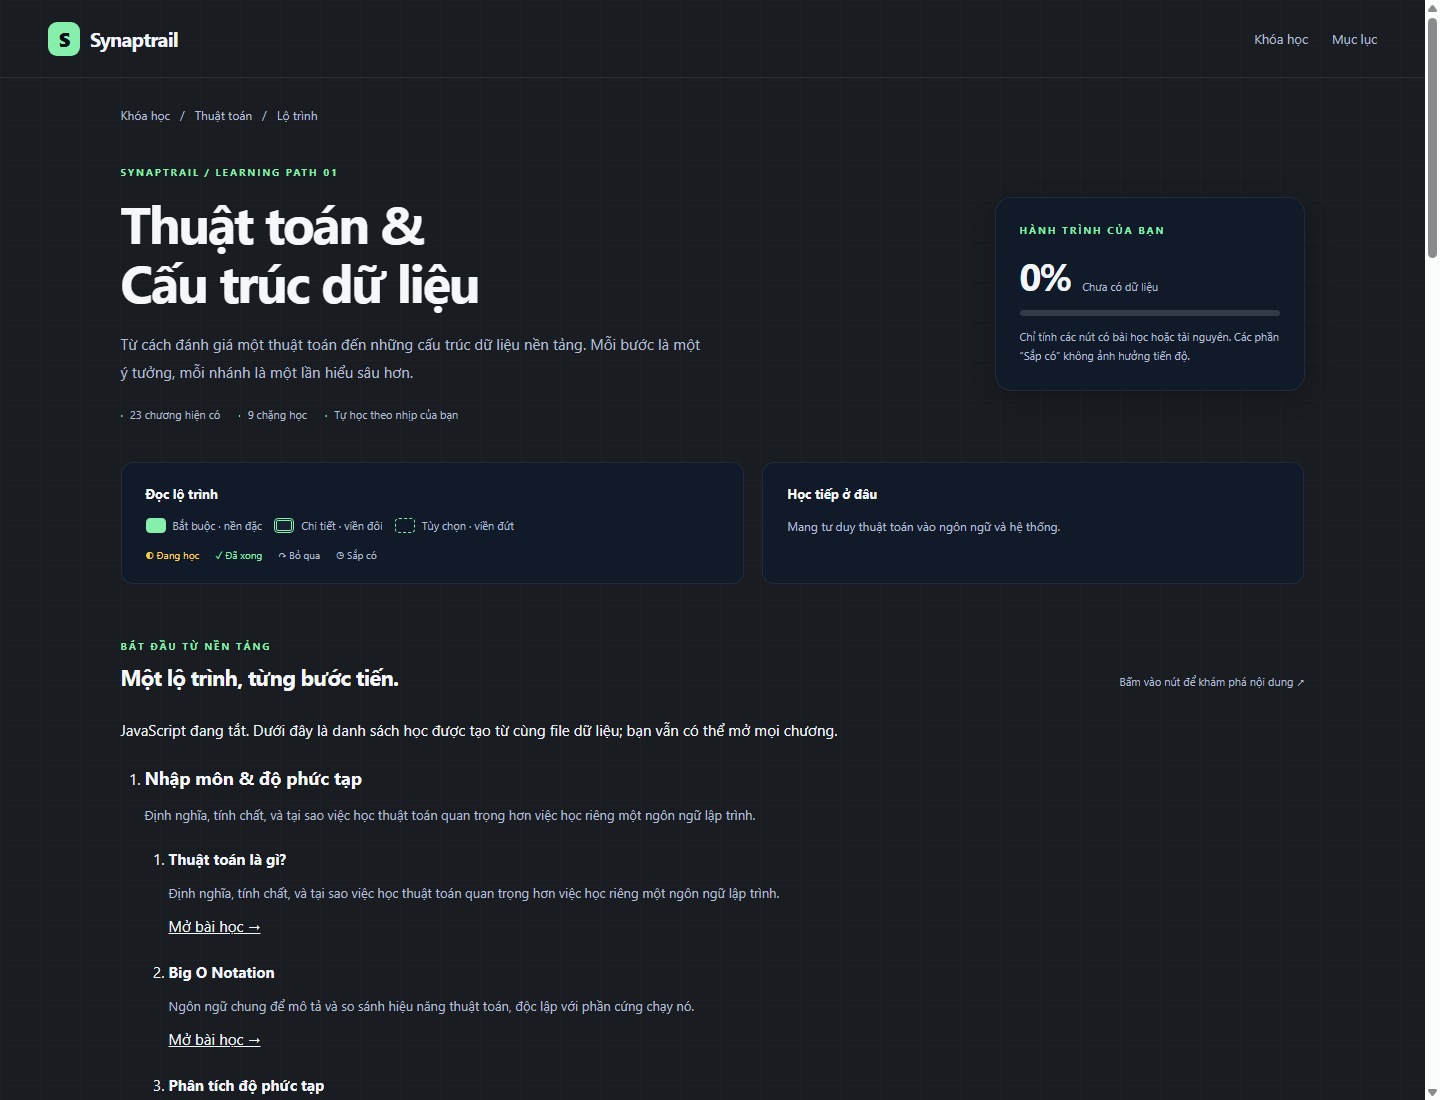
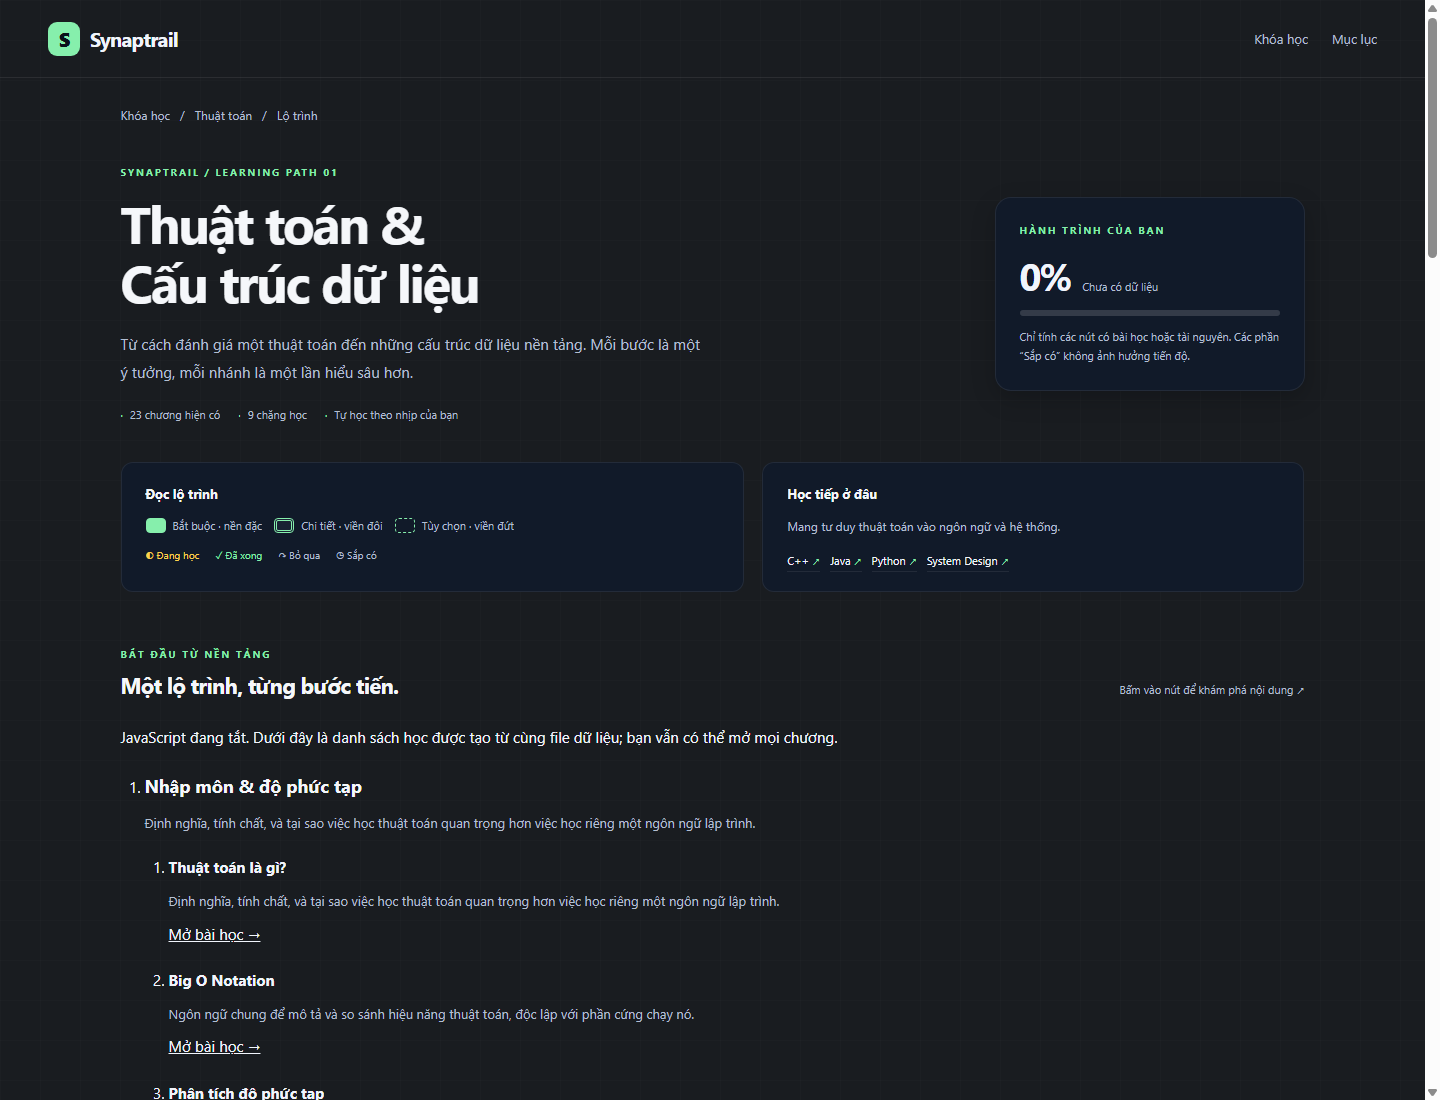
Oct 15, 2026, 12:20 PM

diff --git a/roadmap/thuat-toan.html b/roadmap/thuat-toan.html
@@ -18,7 +18,7 @@
   <main class="rm-main" id="roadmap-content">
     <div class="rm-breadcrumb"><a href="../courses.html">Khóa học</a><span aria-hidden="true">/</span><a href="../thuat-toan/index.html">Thuật toán</a><span aria-hidden="true">/</span>Lộ trình</div>
     <section class="rm-intro" aria-labelledby="rm-title"><div><p class="rm-eyebrow">SYNAPTRAIL / LEARNING PATH 01</p><h1 id="rm-title">Thuật toán &<br><span>Cấu trúc dữ liệu</span></h1><p class="rm-lead">Từ cách đánh giá một thuật toán đến những cấu trúc dữ liệu nền tảng. Mỗi bước là một ý tưởng, mỗi nhánh là một lần hiểu sâu hơn.</p><div class="rm-facts"><span>23 chương hiện có</span><span>9 chặng học</span><span>Tự học theo nhịp của bạn</span></div></div><aside class="rm-progress-card" aria-label="Tiến độ lộ trình"><p class="rm-eyebrow">HÀNH TRÌNH CỦA BẠN</p><div class="rm-progress-number"><strong id="rm-percent">0%</strong><span id="rm-count">Chưa có dữ liệu</span></div><progress id="rm-progress" max="100" value="0" aria-label="Phần trăm hoàn thành lộ trình"></progress><p>Chỉ tính các nút có bài học hoặc tài nguyên. Các phần “Sắp có” không ảnh hưởng tiến độ.</p><div class="rm-tools"><button type="button" id="rm-export">↓ Xuất</button><button type="button" id="rm-import">↑ Nhập</button><button type="button" id="rm-reset">Reset</button><input type="file" id="rm-file" accept=".json,application/json" hidden aria-label="Chọn file tiến độ JSON"></div><p id="rm-message" role="status" aria-live="polite"></p></aside></section>
-    <div class="rm-info-grid"><section class="rm-info" aria-labelledby="rm-legend-title"><h2 id="rm-legend-title">Đọc lộ trình</h2><div class="rm-legend"><span><i class="rm-key required" aria-hidden="true"></i>Bắt buộc · nền đặc</span><span><i class="rm-key detail" aria-hidden="true"></i>Chi tiết · viền đôi</span><span><i class="rm-key optional" aria-hidden="true"></i>Tùy chọn · viền đứt</span></div><p class="rm-state-legend"><span>◐ Đang học</span><span>✓ Đã xong</span><span>↷ Bỏ qua</span><span>◷ Sắp có</span></p></section><section class="rm-info" aria-labelledby="rm-next-title"><h2 id="rm-next-title">Học tiếp ở đâu</h2><p>Mang tư duy thuật toán vào ngôn ngữ và hệ thống.</p><div class="rm-next" id="rm-next"></div></section></div>
+    <div class="rm-info-grid"><section class="rm-info" aria-labelledby="rm-legend-title"><h2 id="rm-legend-title">Đọc lộ trình</h2><div class="rm-legend"><span><i class="rm-key required" aria-hidden="true"></i>Bắt buộc · nền đặc</span><span><i class="rm-key detail" aria-hidden="true"></i>Chi tiết · viền đôi</span><span><i class="rm-key optional" aria-hidden="true"></i>Tùy chọn · viền đứt</span></div><p class="rm-state-legend"><span>◐ Đang học</span><span>✓ Đã xong</span><span>↷ Bỏ qua</span><span>◷ Sắp có</span></p></section><section class="rm-info" aria-labelledby="rm-next-title"><h2 id="rm-next-title">Học tiếp ở đâu</h2><p>Mang tư duy thuật toán vào ngôn ngữ và hệ thống.</p><div class="rm-next" id="rm-next"><noscript><a href="../cpp/index.html">C++</a><a href="../java/index.html">Java</a><a href="../python/index.html">Python</a><a href="../system-design/index.html">System Design</a></noscript></div></section></div>
     <section class="rm-map-section" aria-labelledby="rm-map-title"><div class="rm-map-heading"><div><p class="rm-eyebrow">BẮT ĐẦU TỪ NỀN TẢNG</p><h2 id="rm-map-title">Một lộ trình, từng bước tiến.</h2></div><p>Bấm vào nút để khám phá nội dung <span aria-hidden="true">↗</span></p></div><div class="rm-map" id="rm-map"><svg class="rm-connections" id="rm-connections" aria-hidden="true"></svg><ol id="rm-stages" class="rm-stages"></ol></div><noscript><p>JavaScript đang tắt. Dưới đây là danh sách học được tạo từ cùng file dữ liệu; bạn vẫn có thể mở mọi chương.</p><!-- fallback:start -->
 <ol class="fallback-list"><li><h2>Nhập môn &amp; độ phức tạp</h2><p>Định nghĩa, tính chất, và tại sao việc học thuật toán quan trọng hơn việc học riêng một ngôn ngữ lập trình.</p><ol><li><strong>Thuật toán là gì?</strong><p>Định nghĩa, tính chất, và tại sao việc học thuật toán quan trọng hơn việc học riêng một ngôn ngữ lập trình.</p><a href="../thuat-toan/chapter01.html">Mở bài học →</a></li><li><strong>Big O Notation</strong><p>Ngôn ngữ chung để mô tả và so sánh hiệu năng thuật toán, độc lập với phần cứng chạy nó.</p><a href="../thuat-toan/chapter02.html">Mở bài học →</a></li><li><strong>Phân tích độ phức tạp</strong><p>Cách tự tính Big O cho một đoạn code bất kỳ — kỹ năng thực hành quan trọng nhất của chương này.</p><a href="../thuat-toan/chapter03.html">Mở bài học →</a></li><li><strong>Độ phức tạp không gian (Space Complexity)</strong><p>Đo lượng bộ nhớ bổ sung mà thuật toán cần — cũng quan trọng không kém độ phức tạp thời gian.</p><a href="../thuat-toan/chapter04.html">Mở bài học →</a></li></ol></li><li><h2>Sắp xếp</h2><p>Hai thuật toán sắp xếp đơn giản nhất — dễ hiểu nhưng kém hiệu quả, chủ yếu mang tính giáo dục.</p><ol><li><strong>Bubble Sort &amp; Selection Sort</strong><p>Hai thuật toán sắp xếp đơn giản nhất — dễ hiểu nhưng kém hiệu quả, chủ yếu mang tính giáo dục.</p><a href="../thuat-toan/chapter05.html">Mở bài học →</a></li><li><strong>Insertion Sort</strong><p>Xây dựng mảng đã sắp xếp từng phần tử một — giống cách con người sắp xếp bài trên tay khi chơi bài.</p><a href="../thuat-toan/chapter06.html">Mở bài học →</a></li><li><strong>Merge Sort</strong><p>Thuật toán &quot;chia để trị&quot; kinh điển — hiệu năng ổn định O(n log n) trong MỌI trường hợp.</p><a href="../thuat-toan/chapter07.html">Mở bài học →</a></li><li><strong>Quick Sort</strong><p>Thuật toán sắp xếp nhanh nhất trong thực tế trung bình — được dùng làm mặc định trong nhiều ngôn ngữ.</p><a href="../thuat-toan/chapter08.html">Mở bài học →</a></li><li><strong>Heap Sort</strong><p>Sắp xếp dựa trên cấu trúc dữ liệu Heap — đảm bảo O(n log n) mọi trường hợp, sắp xếp tại chỗ (in-place).</p><a href="../thuat-toan/chapter09.html">Mở bài học →</a></li><li><strong>Counting Sort &amp; Radix Sort</strong><p>Các thuật toán sắp xếp &quot;phi so sánh&quot; (non-comparison) — có thể nhanh hơn O(n log n) trong điều kiện đặc biệt.</p><a href="../thuat-toan/chapter10.html">Mở bài học →</a></li><li><strong>So sánh &amp; lựa chọn thuật toán sắp xếp</strong><p>Tổng hợp toàn bộ các thuật toán đã học và hướng dẫn chọn đúng thuật toán cho từng tình huống.</p><a href="../thuat-toan/chapter11.html">Mở bài học →</a></li></ol></li><li><h2>Tìm kiếm</h2><p>Thuật toán tìm kiếm đơn giản nhất — duyệt tuần tự từng phần tử cho tới khi tìm thấy.</p><ol><li><strong>Linear Search</strong><p>Thuật toán tìm kiếm đơn giản nhất — duyệt tuần tự từng phần tử cho tới khi tìm thấy.</p><a href="../thuat-toan/chapter12.html">Mở bài học →</a></li><li><strong>Binary Search</strong><p>Tìm kiếm nhị phân — O(log n), nhanh vượt trội so với Linear Search, nhưng YÊU CẦU dữ liệu đã sắp xếp.</p><a href="../thuat-toan/chapter13.html">Mở bài học →</a></li><li><strong>Biến thể Binary Search</strong><p>Các bài toán mở rộng từ ý tưởng chia đôi — rất hay gặp trong phỏng vấn kỹ thuật.</p><a href="../thuat-toan/chapter14.html">Mở bài học →</a></li><li><strong>Hashing &amp; Tra cứu O(1)</strong><p>Kỹ thuật cho phép tra cứu gần như tức thì — nền tảng của dictionary/HashMap trong mọi ngôn ngữ.</p><a href="../thuat-toan/chapter15.html">Mở bài học →</a></li></ol></li><li><h2>Cấu trúc dữ liệu tuyến tính</h2><p>Hai cách cơ bản nhất để lưu trữ một dãy phần tử — mỗi cách có đánh đổi (trade-off) riêng.</p><ol><li><strong>Array vs Linked List</strong><p>Hai cách cơ bản nhất để lưu trữ một dãy phần tử — mỗi cách có đánh đổi (trade-off) riêng.</p><a href="../thuat-toan/chapter16.html">Mở bài học →</a></li><li><strong>Cài đặt Linked List</strong><p>Tự xây dựng Singly và Doubly Linked List từ đầu — hiểu rõ cách con trỏ hoạt động bên dưới.</p><a href="../thuat-toan/chapter17.html">Mở bài học →</a></li><li><strong>Stack — Ứng dụng thực tế</strong><p>Cấu trúc LIFO (Last In First Out) — không chỉ là lý thuyết, mà là nền tảng của rất nhiều tính năng bạn dùng hàng ngày.</p><a href="../thuat-toan/chapter18.html">Mở bài học →</a></li><li><strong>Queue &amp; Deque</strong><p>Cấu trúc FIFO (First In First Out) và biến thể hai đầu — nền tảng xử lý theo thứ tự và duyệt BFS.</p><a href="../thuat-toan/chapter19.html">Mở bài học →</a></li></ol></li><li><h2>Cây</h2><p>Cấu trúc dữ liệu phân cấp — mỗi node có tối đa 2 con. Nền tảng cho BST, Heap, và nhiều cấu trúc nâng cao khác.</p><ol><li><strong>Binary Tree &amp; Duyệt cây</strong><p>Cấu trúc dữ liệu phân cấp — mỗi node có tối đa 2 con. Nền tảng cho BST, Heap, và nhiều cấu trúc nâng cao khác.</p><a href="../thuat-toan/chapter20.html">Mở bài học →</a></li><li><strong>Binary Search Tree (BST)</strong><p>Cây nhị phân với ràng buộc đặc biệt: trái luôn nhỏ hơn gốc, phải luôn lớn hơn gốc — cho phép tìm kiếm O(log n).</p><a href="../thuat-toan/chapter21.html">Mở bài học →</a></li><li><strong>Cây cân bằng (AVL)</strong><p>BST tự động &quot;cân bằng lại&quot; sau mỗi lần thêm/xóa — đảm bảo O(log n) LUÔN ĐÚNG, không suy biến như BST thường.</p><a href="../thuat-toan/chapter22.html">Mở bài học →</a></li><li><strong>Heap &amp; Priority Queue</strong><p>Cây nhị phân đặc biệt luôn giữ phần tử ưu tiên nhất ở gốc — nền tảng của hàng đợi ưu tiên và Heap Sort (đã học ở chương 9).</p><a href="../thuat-toan/chapter23.html">Mở bài học →</a></li></ol></li><li><h2>Đồ thị</h2><p>Chưa có chương riêng về đồ thị trong khóa học hiện tại. · Sắp có</p><ol><li><strong>BFS / DFS</strong><p>Chưa có chương riêng. Chương 18, 19 và 20 hiện giới thiệu Stack, Queue và các cách duyệt cây có liên quan.</p><span>Sắp có</span></li><li><strong>Dijkstra</strong><p>Chưa có chương riêng. Tổng kết chương 23 nhắc tới Priority Queue là thành phần của thuật toán Dijkstra.</p><span>Sắp có</span></li><li><strong>Union-Find</strong><p>Chưa có nội dung Union-Find trong 23 chương hiện tại.</p><span>Sắp có</span></li></ol></li><li><h2>Đệ quy &amp; Quy hoạch động</h2><p>Chưa có chương riêng về quy hoạch động. Đệ quy đã xuất hiện trong Merge Sort và duyệt cây. · Sắp có</p><ol></ol></li><li><h2>Tham lam, Chia để trị, Backtracking</h2><p>Chưa có chương riêng cho nhóm chiến lược này. Merge Sort hiện giới thiệu ý tưởng chia để trị. · Sắp có</p><ol></ol></li><li><h2>Luyện tập</h2><p>Ôn tập và thực hành với các tài nguyên đang có của Synaptrail.</p><ol><li><strong>Bài tập thực hành</strong><p>Mở trang bài tập thực hành của Synaptrail.</p><a href="../Quiz_and_other/exercises.html">Mở bài học →</a></li><li><strong>Quiz tổng hợp</strong><p>Mở bộ câu hỏi tổng hợp của Synaptrail.</p><a href="../Quiz_and_other/quiz-tong-hop.html">Mở bài học →</a></li><li><strong>Cheatsheet tra cứu</strong><p>Mở tài liệu tra cứu nhanh của Synaptrail.</p><a href="../Quiz_and_other/cheatsheet.html">Mở bài học →</a></li></ol></li></ol>
 <!-- fallback:end --></noscript></section>
